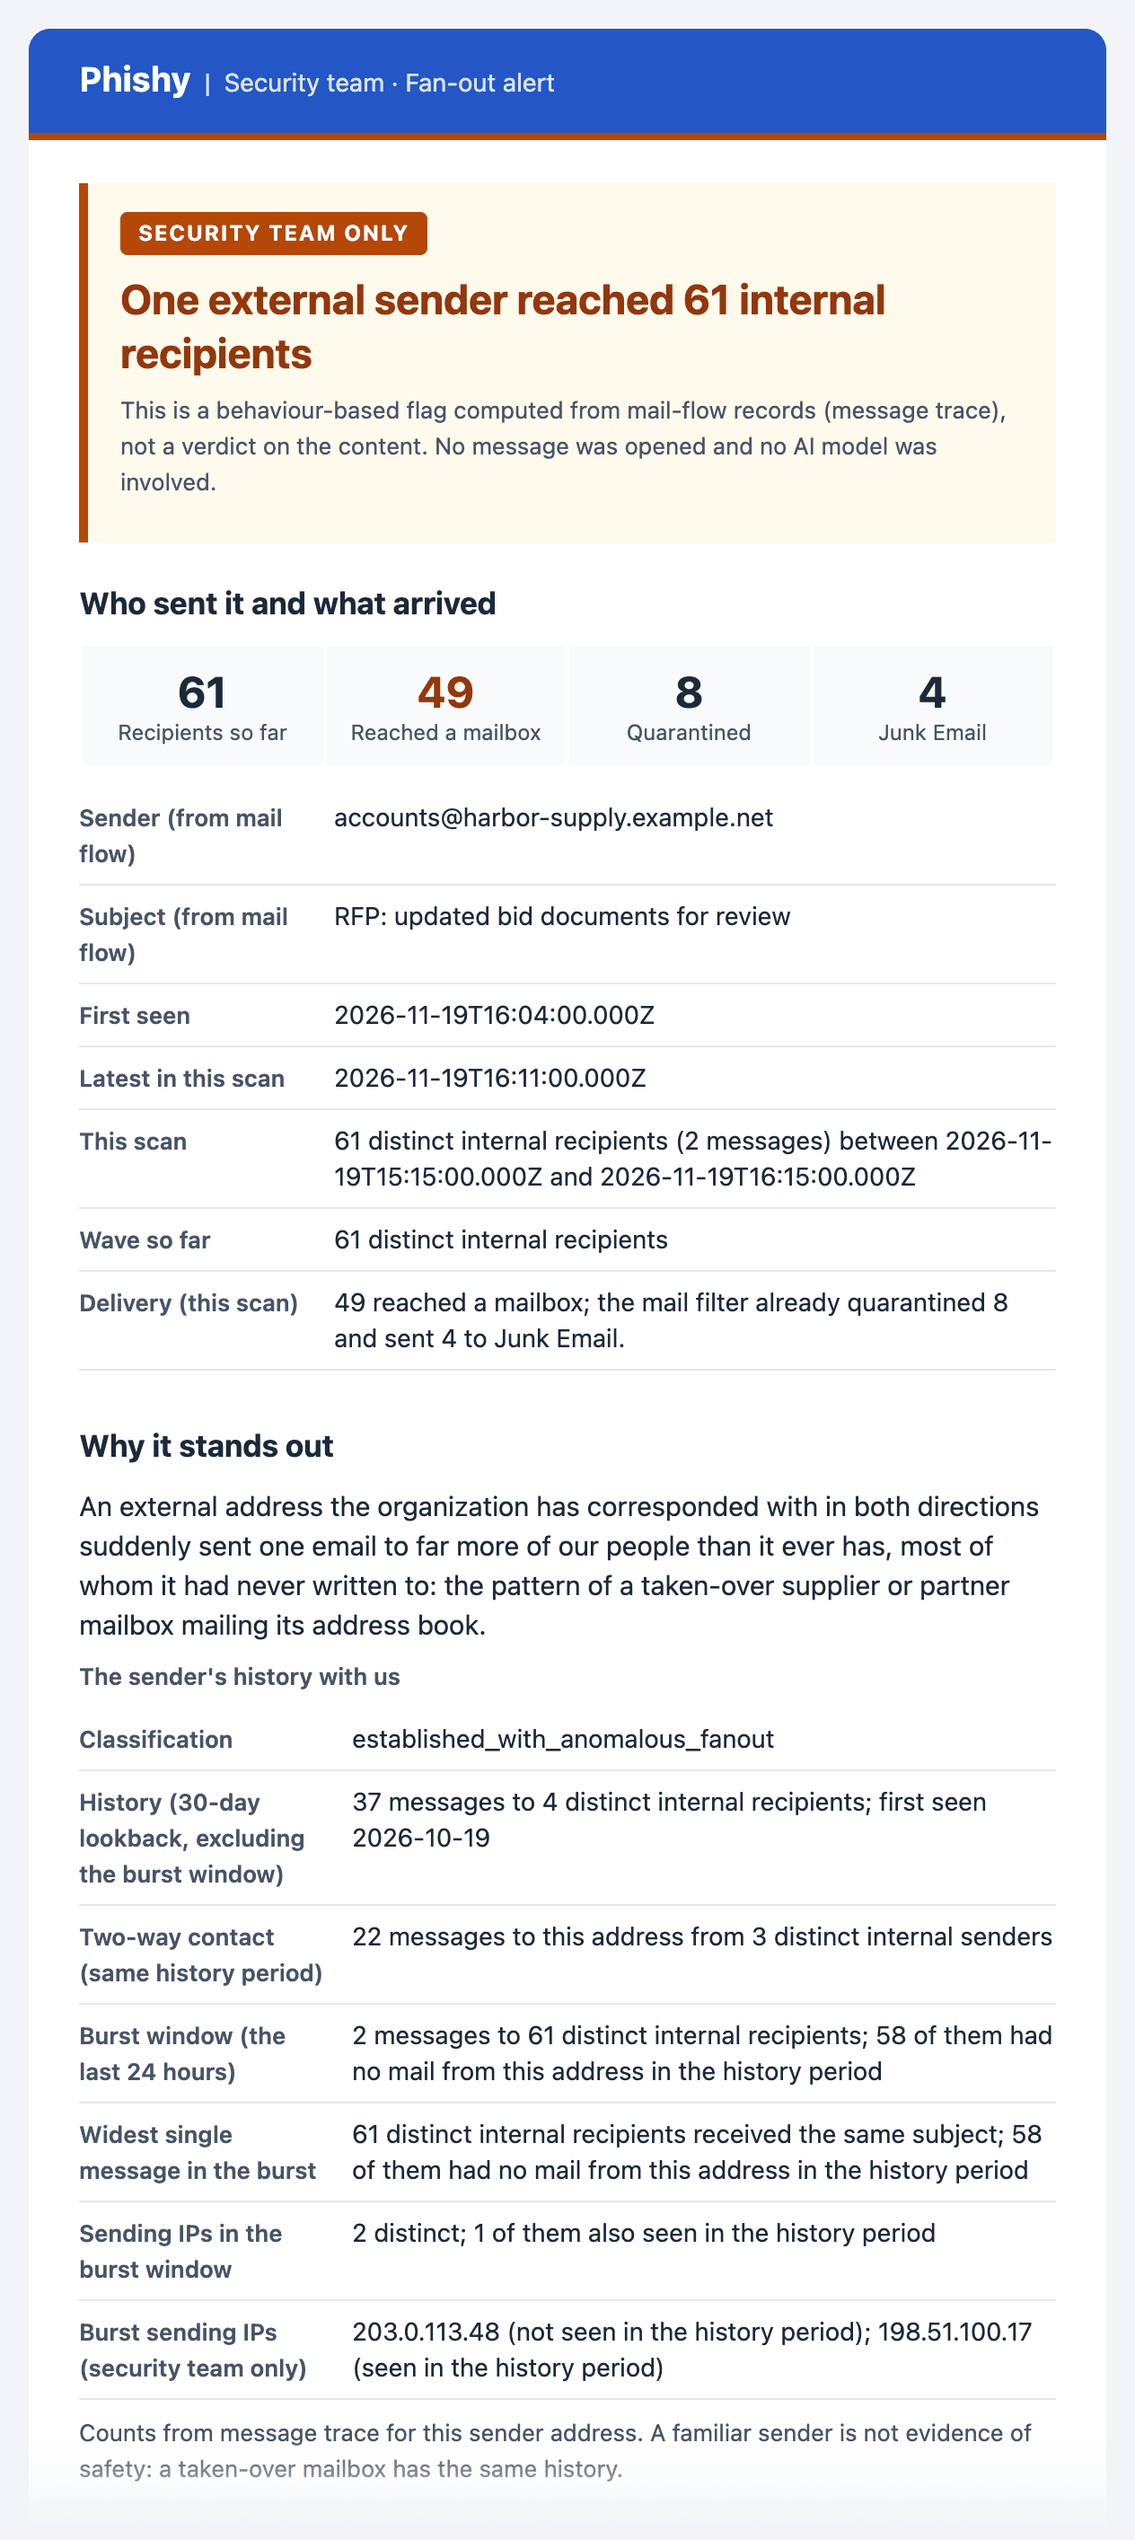
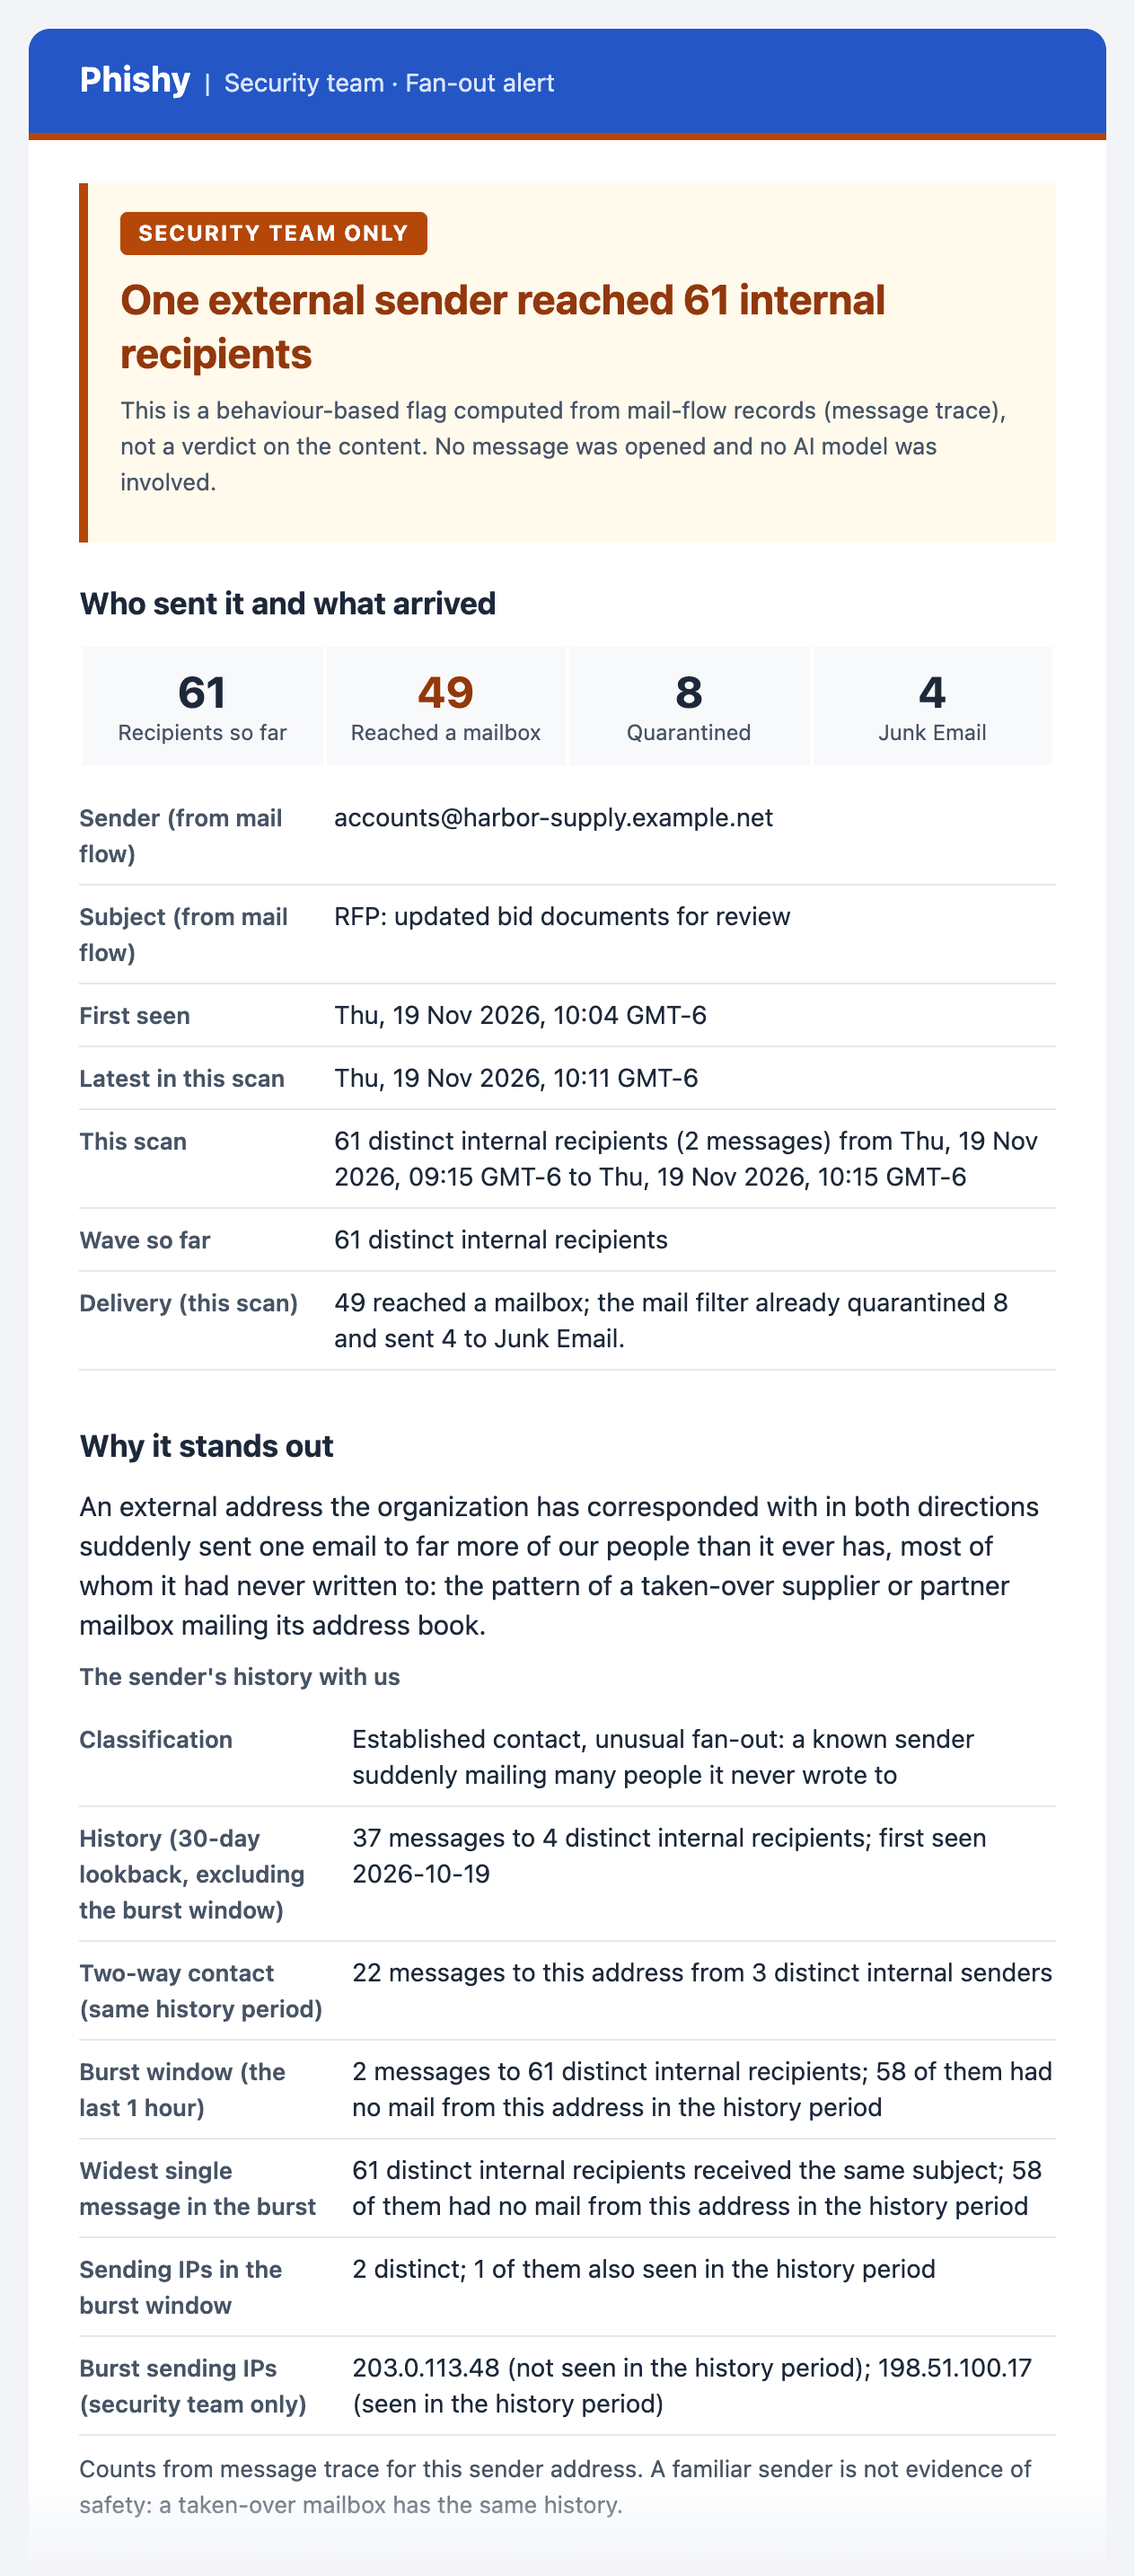
docs: re-render the screenshots the wording fixes changed
report-legitimate ("6/100 safe"), campaign-warning ("In your Inbox.") and
fanout-alert (times in the configured zone, plain-language classification,
"the last 1 hour"). The generator passes its time zone to the fan-out alert
and its sample goes back to a 1-hour burst window.

diff --git a/scripts/render-example-emails.ts b/scripts/render-example-emails.ts
@@ -441,7 +441,7 @@ const employeeWarning = buildEmployeeWarning(
 const fanoutFacts: SenderHistoryFacts = {
   classification: 'established_with_anomalous_fanout',
   lookbackDays: 30,
-  burstWindowHours: 24,
+  burstWindowHours: 1,
   history: {
     messages: { count: 37, atLeast: false },
     recipients: { count: 4, atLeast: false },
@@ -501,6 +501,7 @@ const fanoutAlert = buildFanoutAlert({
   waveFirstSeen: '2026-11-19T16:04:00.000Z',
   window: { from: '2026-11-19T15:15:00.000Z', to: '2026-11-19T16:15:00.000Z' },
   incompleteReasons: [],
+  timeZone: TIME_ZONE,
 });
 
 // ---------------------------------------------------------------------------
